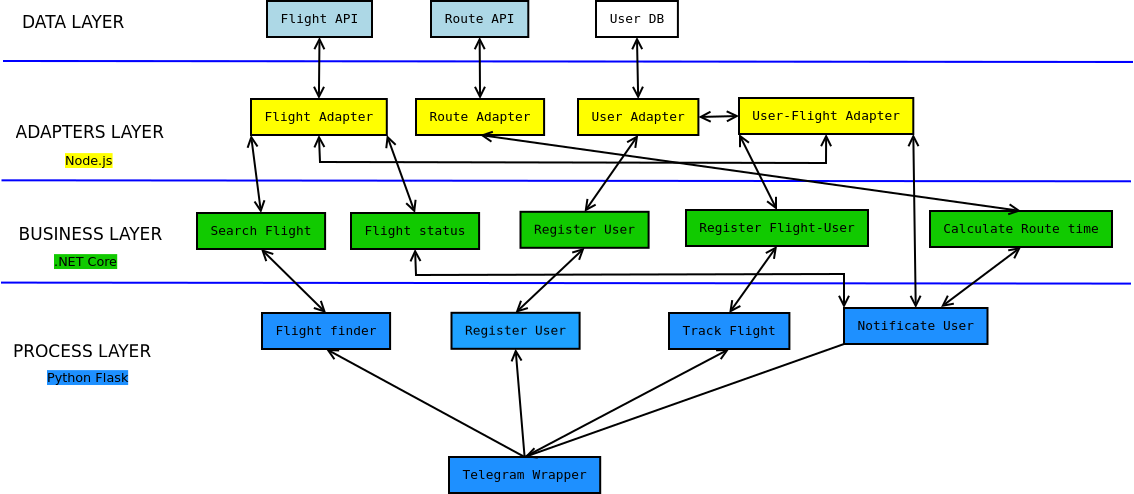
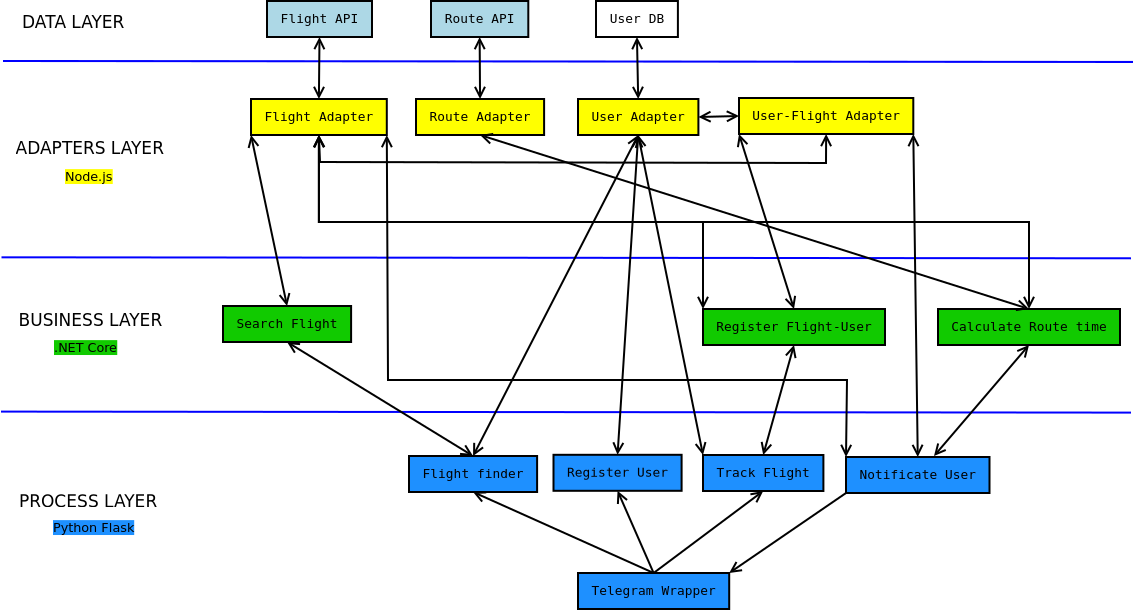
Update readme

diff --git a/README.md b/README.md
@@ -6,3 +6,30 @@ This project is a microservice architecture that implements a Telegram bot capab
 
 ## Project structure
 ![Schema](schema.png)
+
+## Documentation
+Data layer:
+- Flight API (Lufthansa API)
+- Route API (openrouteservice)
+- User DB (PostgreSQL)
+
+Adapter layer:
+- [Flight adapter](https://petstore.swagger.io/?url=https://raw.githubusercontent.com/davidezanella/SDE_flight_tracker_bot/master/adapter_services_layer/flight_adapter/swagger.yaml)
+- [Route adapter](https://petstore.swagger.io/?url=https://raw.githubusercontent.com/davidezanella/SDE_flight_tracker_bot/master/adapter_services_layer/route_adapter/swagger.yaml)
+- [User adapter](https://petstore.swagger.io/?url=https://raw.githubusercontent.com/davidezanella/SDE_flight_tracker_bot/master/adapter_services_layer/user_adapter/swagger.yaml)
+- [User-flight adapter](https://petstore.swagger.io/?url=https://raw.githubusercontent.com/davidezanella/SDE_flight_tracker_bot/master/adapter_services_layer/user-flight_adapter/swagger.yaml)
+
+Business layer:
+- [Search flight](https://petstore.swagger.io/?url=https://raw.githubusercontent.com/davidezanella/SDE_flight_tracker_bot/master/business_services_layer/search_flight/swagger.yaml)
+- [Register flight-user](https://petstore.swagger.io/?url=https://raw.githubusercontent.com/davidezanella/SDE_flight_tracker_bot/master/business_services_layer/register_flight-user/swagger.yaml)
+- [Calculate route time](https://petstore.swagger.io/?url=https://raw.githubusercontent.com/davidezanella/SDE_flight_tracker_bot/master/business_services_layer/calculate_route_time/swagger.yaml)
+
+Process layer:
+- [Flight finder](https://petstore.swagger.io/?url=https://raw.githubusercontent.com/davidezanella/SDE_flight_tracker_bot/master/process_services_layer/flight_finder/swagger.yaml)
+- [Register user](https://petstore.swagger.io/?url=https://raw.githubusercontent.com/davidezanella/SDE_flight_tracker_bot/master/process_services_layer/register_user/swagger.yaml)
+- [Track flight](https://petstore.swagger.io/?url=https://raw.githubusercontent.com/davidezanella/SDE_flight_tracker_bot/master/process_services_layer/track_flight/swagger.yaml)
+- [Notificate user](https://petstore.swagger.io/?url=https://raw.githubusercontent.com/davidezanella/SDE_flight_tracker_bot/master/process_services_layer/notificate_user/swagger.yaml)
+
+
+
+- [Telegram wrapper](https://petstore.swagger.io/?url=https://raw.githubusercontent.com/davidezanella/SDE_flight_tracker_bot/master/process_services_layer/telegram_wrapper/swagger.yaml)
